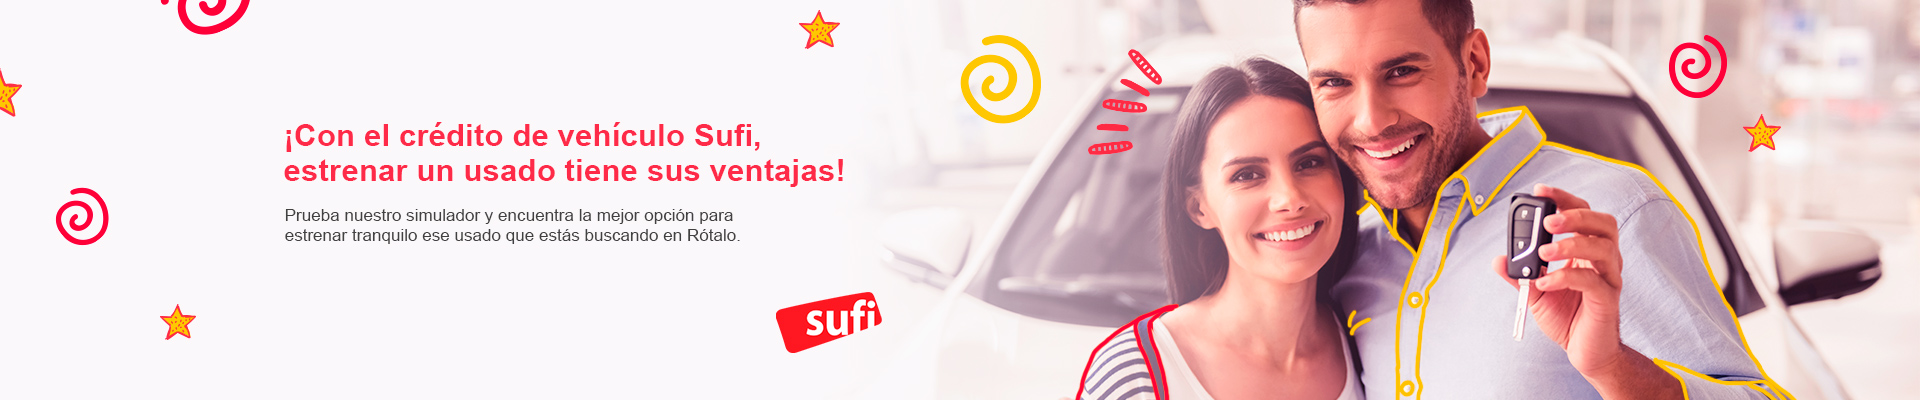
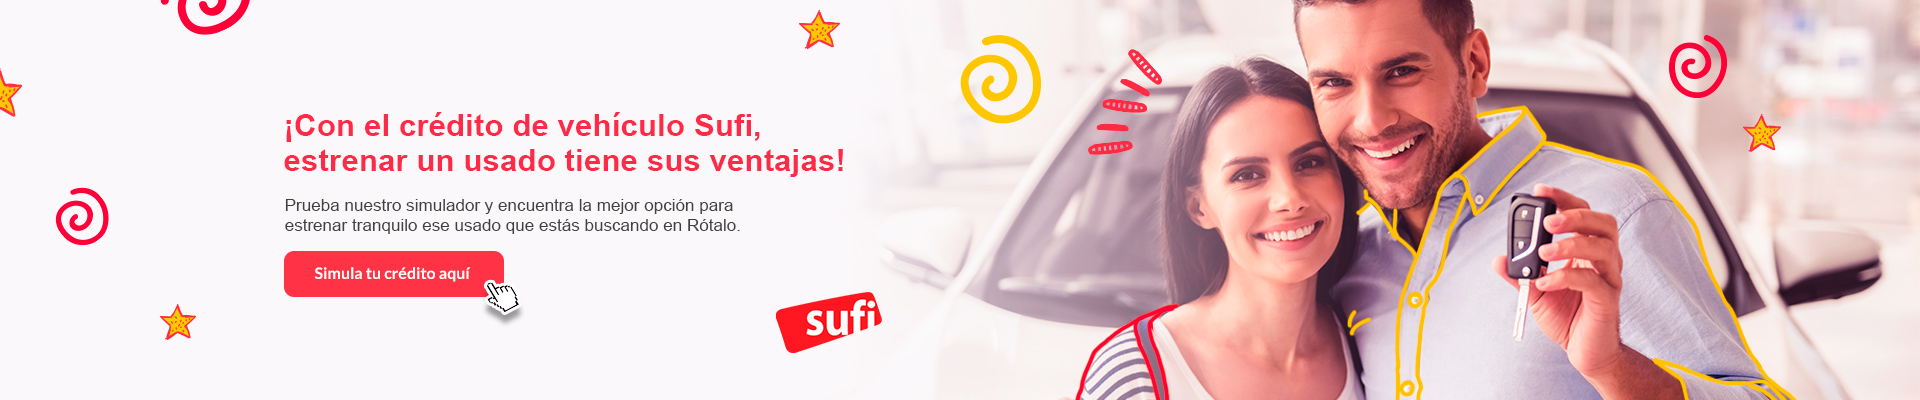
finaliza sprint 20

Changed region(s): [[0.125, 0.48, 0.4062, 0.81], [0.125, 0.27, 0.4375, 0.45]]

diff --git a/src/commons/constants/banner-imgs.contants.ts b/src/commons/constants/banner-imgs.contants.ts
@@ -1,13 +1,13 @@
 export const IMGS_BANNER = [
   './assets/img/banner/banner_sufi.jpg',
-  './assets/img/banner/hipotecario.jpg',
-  './assets/img/banner/banner_aliados.jpg'
+  './assets/img/banner/banner_aliados.jpg',
+  './assets/img/banner/hipotecario.jpg'
 ];
 
 export const IMGS_BANNER_MOBILE = [
   './assets/img/banner/mobile/banner_sufi_mobile.jpg',
-  './assets/img/banner/mobile/hipotecario_mobile.jpg',
-  './assets/img/banner/mobile/banner_aliados_mobile.jpg'
+  './assets/img/banner/mobile/banner_aliados_mobile.jpg',
+  './assets/img/banner/mobile/hipotecario_mobile.jpg'
 ];
 
 export const IMGS_BANNER_GUATEMALA = [
@@ -16,6 +16,6 @@ export const IMGS_BANNER_GUATEMALA = [
 
 export const IMGS_BANNER_BANCOLOMBIA = [
   './assets/img/banner/banner_sufi.jpg',
-  './assets/img/banner/hipotecario.jpg',
-  './assets/img/banner/banner_aliados.jpg'
+  './assets/img/banner/banner_aliados.jpg',
+  './assets/img/banner/hipotecario.jpg'
 ];

diff --git a/src/commons/constants/images-companies.ts b/src/commons/constants/images-companies.ts
@@ -94,24 +94,43 @@ export const IMGS_COMPANIES = [
 
   {
     url: './assets/img/logos_company/20_riopaila.png',
-    name: 'canales'
+    name: 'riopaila'
   },
 
   {
     url: './assets/img/logos_company/21_amelissa.png',
-    name: 'canales'
+    name: 'amelissa'
   },
 
   {
     url: './assets/img/logos_company/22_doria.png',
-    name: 'canales'
+    name: 'doria'
   },
   {
     url: './assets/img/logos_company/23_isagen.png',
-    name: 'canales'
+    name: 'isagen'
+  }
+  ,
+  {
+    url: './assets/img/logos_company/24_agenciauto.png',
+    name: 'agenciauto'
+  }
+  ,
+  {
+    url: './assets/img/logos_company/25_autoamerica.png',
+    name: 'autoamerica'
+  }
+  ,
+  {
+    url: './assets/img/logos_company/26_automax.png',
+    name: 'automax'
+  }
+  ,
+  {
+    url: './assets/img/logos_company/27_constructora_londono.png',
+    name: 'constructora_londono'
   }
 ];
-
 
 export const IMGS_COMPANIES_GUATEMALA = [
   {

diff --git a/src/pages/products-feed/products-feed.page.ts b/src/pages/products-feed/products-feed.page.ts
@@ -519,7 +519,7 @@ export class ProductsFeedPage implements OnInit, OnDestroy, AfterViewInit {
   }
 
   public isExclusiveOffer(imageUrl) {
-    if (imageUrl.includes('black_friday')) {
+    if (imageUrl.includes('banner_sufi')) {
       return true;
     }
     return false;
@@ -541,7 +541,9 @@ export class ProductsFeedPage implements OnInit, OnDestroy, AfterViewInit {
   public redirectPromo (imageUrl) {
     if (this.isExclusiveOffer(imageUrl)) {
       this.router.navigate([
-        `${ROUTES.MICROSITE.LINK}/${ROUTES.MICROSITE.FEED}`
+        `${ROUTES.PRODUCTS.LINK}/${
+          ROUTES.PRODUCTS.SIMULATECREDIT
+        }`
       ]);
     }
   }

diff --git a/src/commons/constants/banner-imgs-promo.constants.ts b/src/commons/constants/banner-imgs-promo.constants.ts
@@ -1,13 +1,13 @@
 export const IMGS_BANNER_PROMO_BANCOLOMBIA = [
   './assets/img/banner/banner_sufi.jpg',
-  './assets/img/banner/hipotecario.jpg',
-  './assets/img/banner/banner_aliados.jpg'
+  './assets/img/banner/banner_aliados.jpg',
+  './assets/img/banner/hipotecario.jpg'
 ];
 
 export const IMGS_BANNER_PROMO = [
   './assets/img/banner/banner_sufi.jpg',
-  './assets/img/banner/hipotecario.jpg',
-  './assets/img/banner/banner_aliados.jpg'
+  './assets/img/banner/banner_aliados.jpg',
+  './assets/img/banner/hipotecario.jpg'
 ];
 
 export const IMGS_BANNER_GUATEMALA_PROMO = [

diff --git a/src/pages/profile/admin-register/admin-register.page.ts b/src/pages/profile/admin-register/admin-register.page.ts
@@ -42,7 +42,6 @@ export class AdminRegisterPage implements OnInit {
   loadRegisters() {
     this.settingsService.getPreRegisters().subscribe((response) => {
       this.registers = response.body.preregistros;
-      console.log(this.registers);
       if (this.registers && this.registers.length > 0) {
         this.noRegisters = false;
       } else {

diff --git a/src/components/form-product/form-product.component.ts b/src/components/form-product/form-product.component.ts
@@ -408,7 +408,6 @@ export class FormProductComponent implements OnInit, OnChanges, AfterViewInit  {
   }
 
   onUploadImageFinished(event) {
-    console.log(event.file);
     this.errorUploadImg = false;
     this.errorMaxImg = false;
     if (event.file.type == 'image/jpeg'

diff --git a/src/microsite/pages-microsite/car-microsite/car-microsite.page.ts b/src/microsite/pages-microsite/car-microsite/car-microsite.page.ts
@@ -451,8 +451,6 @@ export class CarMicrositePage implements OnInit, OnDestroy {
     const body = {
       productos: []
     };
-
-    console.log(this.products);
     this.products.forEach(element => {
       body.productos.push(
         {

diff --git a/src/components/product/product.component.ts b/src/components/product/product.component.ts
@@ -324,7 +324,6 @@ export class ProductComponent implements AfterViewInit, AfterContentInit {
         productParam.posicion = Number(id);
       }
     });
-    console.log(productParams);
   }
 
   checkStatusProduct() {

diff --git a/src/components/form-product/form-product.component.scss b/src/components/form-product/form-product.component.scss
@@ -83,7 +83,7 @@
       .container-prev-photos {
         min-height: 10px;
         position: relative;
-        margin-bottom: 2rem;
+        margin-bottom: 1rem;
 
         .prev-photos {
           position: relative;

diff --git a/src/microsite/pages-microsite/response-microsite/response-microsite.page.ts b/src/microsite/pages-microsite/response-microsite/response-microsite.page.ts
@@ -33,7 +33,6 @@ export class ResponseMicrositePage implements OnInit {
 
   ngOnInit() {
     this.jsonFromWaybox = this.car.getWayboxJson();
-    console.log(this.jsonFromWaybox);
     this.finalizeTransaction();
   }
 
